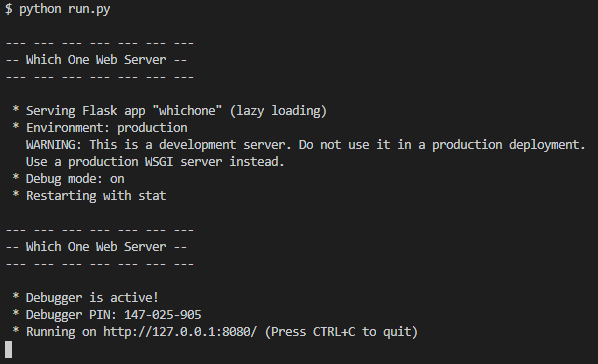
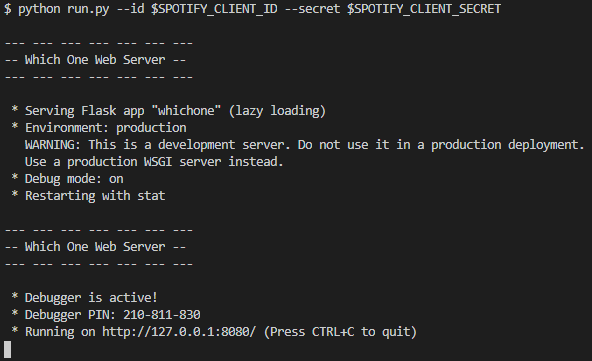
updated readme to include command line arguments

diff --git a/README.md b/README.md
@@ -2,6 +2,16 @@
 
 https://whichone.rocks/
 
+
+## Command Line Arguments
+|Parameter   | Description                                         | Default       | Required   | Type |
+|------------|-----------------------------------------------------|---------------|---------|------|
+|`id`| Spotify Developer API Client | None | :heavy_check_mark: | String |
+|`secret`| Spotify Developer API Client Secret | None | :heavy_check_mark: | String |
+|`redirect`| Spotify Login Redirect URI | http://127.0.0.1:8080 | :heavy_multiplication_x: | String |
+|`limit_route`| User IP address rate limit for accessing page routes | "50 per day" "30 per hour" | :heavy_multiplication_x: | List |
+|`limit_api`| User IP address rate limit for accessing API routes | "10 per day" | :heavy_multiplication_x:  | List |
+
 ## Required Development Setup
 
 * Setup a virtual environment and install the project dependencies:
@@ -10,16 +20,31 @@ python3 -m venv ve-whichone
 source ve-whichone/Scripts/activate
 pip install -r whichone/requirements.txt 
 ```
-* Create and setup a 'defaults.py' file in the config directory (example file included)
+
 * Create a new app on the [Spotify Developer Dashboard](https://developer.spotify.com/dashboard/)
-* Add the app 'Client ID' and 'Client Secret' tokens to defaults.py
+* Whitelist the website address to the Spotify Developer app redirect URIs to redirect after Spotify authentication
+<img src="whichone/demo/redirect.png" width="50%">
+
+
+* (Optional) Set the command line arguments as environment variables:
+```sh
+export SPOTIFY_CLIENT_ID='YOUR_SPOTIFY_CLIENT_ID'
+export SPOTIFY_CLIENT_ID='YOUR_SPOTIFY_CLIENT_SECRET'
+export SPOTIFY_REDIRECT_URL='YOUR_SPOTIFY_REDIRECT_URI'
+export LIMIT_ROUTE="'50 per day' '30 per hour'"
+export LIMIT_API="10 per day"
+```
+
 
 ## Usage
 ```sh
-python run.py
+# Using only required parameters:
+python run.py --id $SPOTIFY_CLIENT_ID --secret $SPOTIFY_CLIENT_SECRET
+# Using optional parameters:
+python run.py --id $SPOTIFY_CLIENT_ID --secret $SPOTIFY_CLIENT_SECRET  --redirect $SPOTIFY_REDIRECT_URL --limit_route $LIMIT_ROUTE --limit_api $LIMIT_API
 ```
-* Go to http://localhost:8080/ to access the site
 
+<img src="whichone/demo/help.png" width="60%">
 <img src="whichone/demo/running.png" width="50%">
 
 
